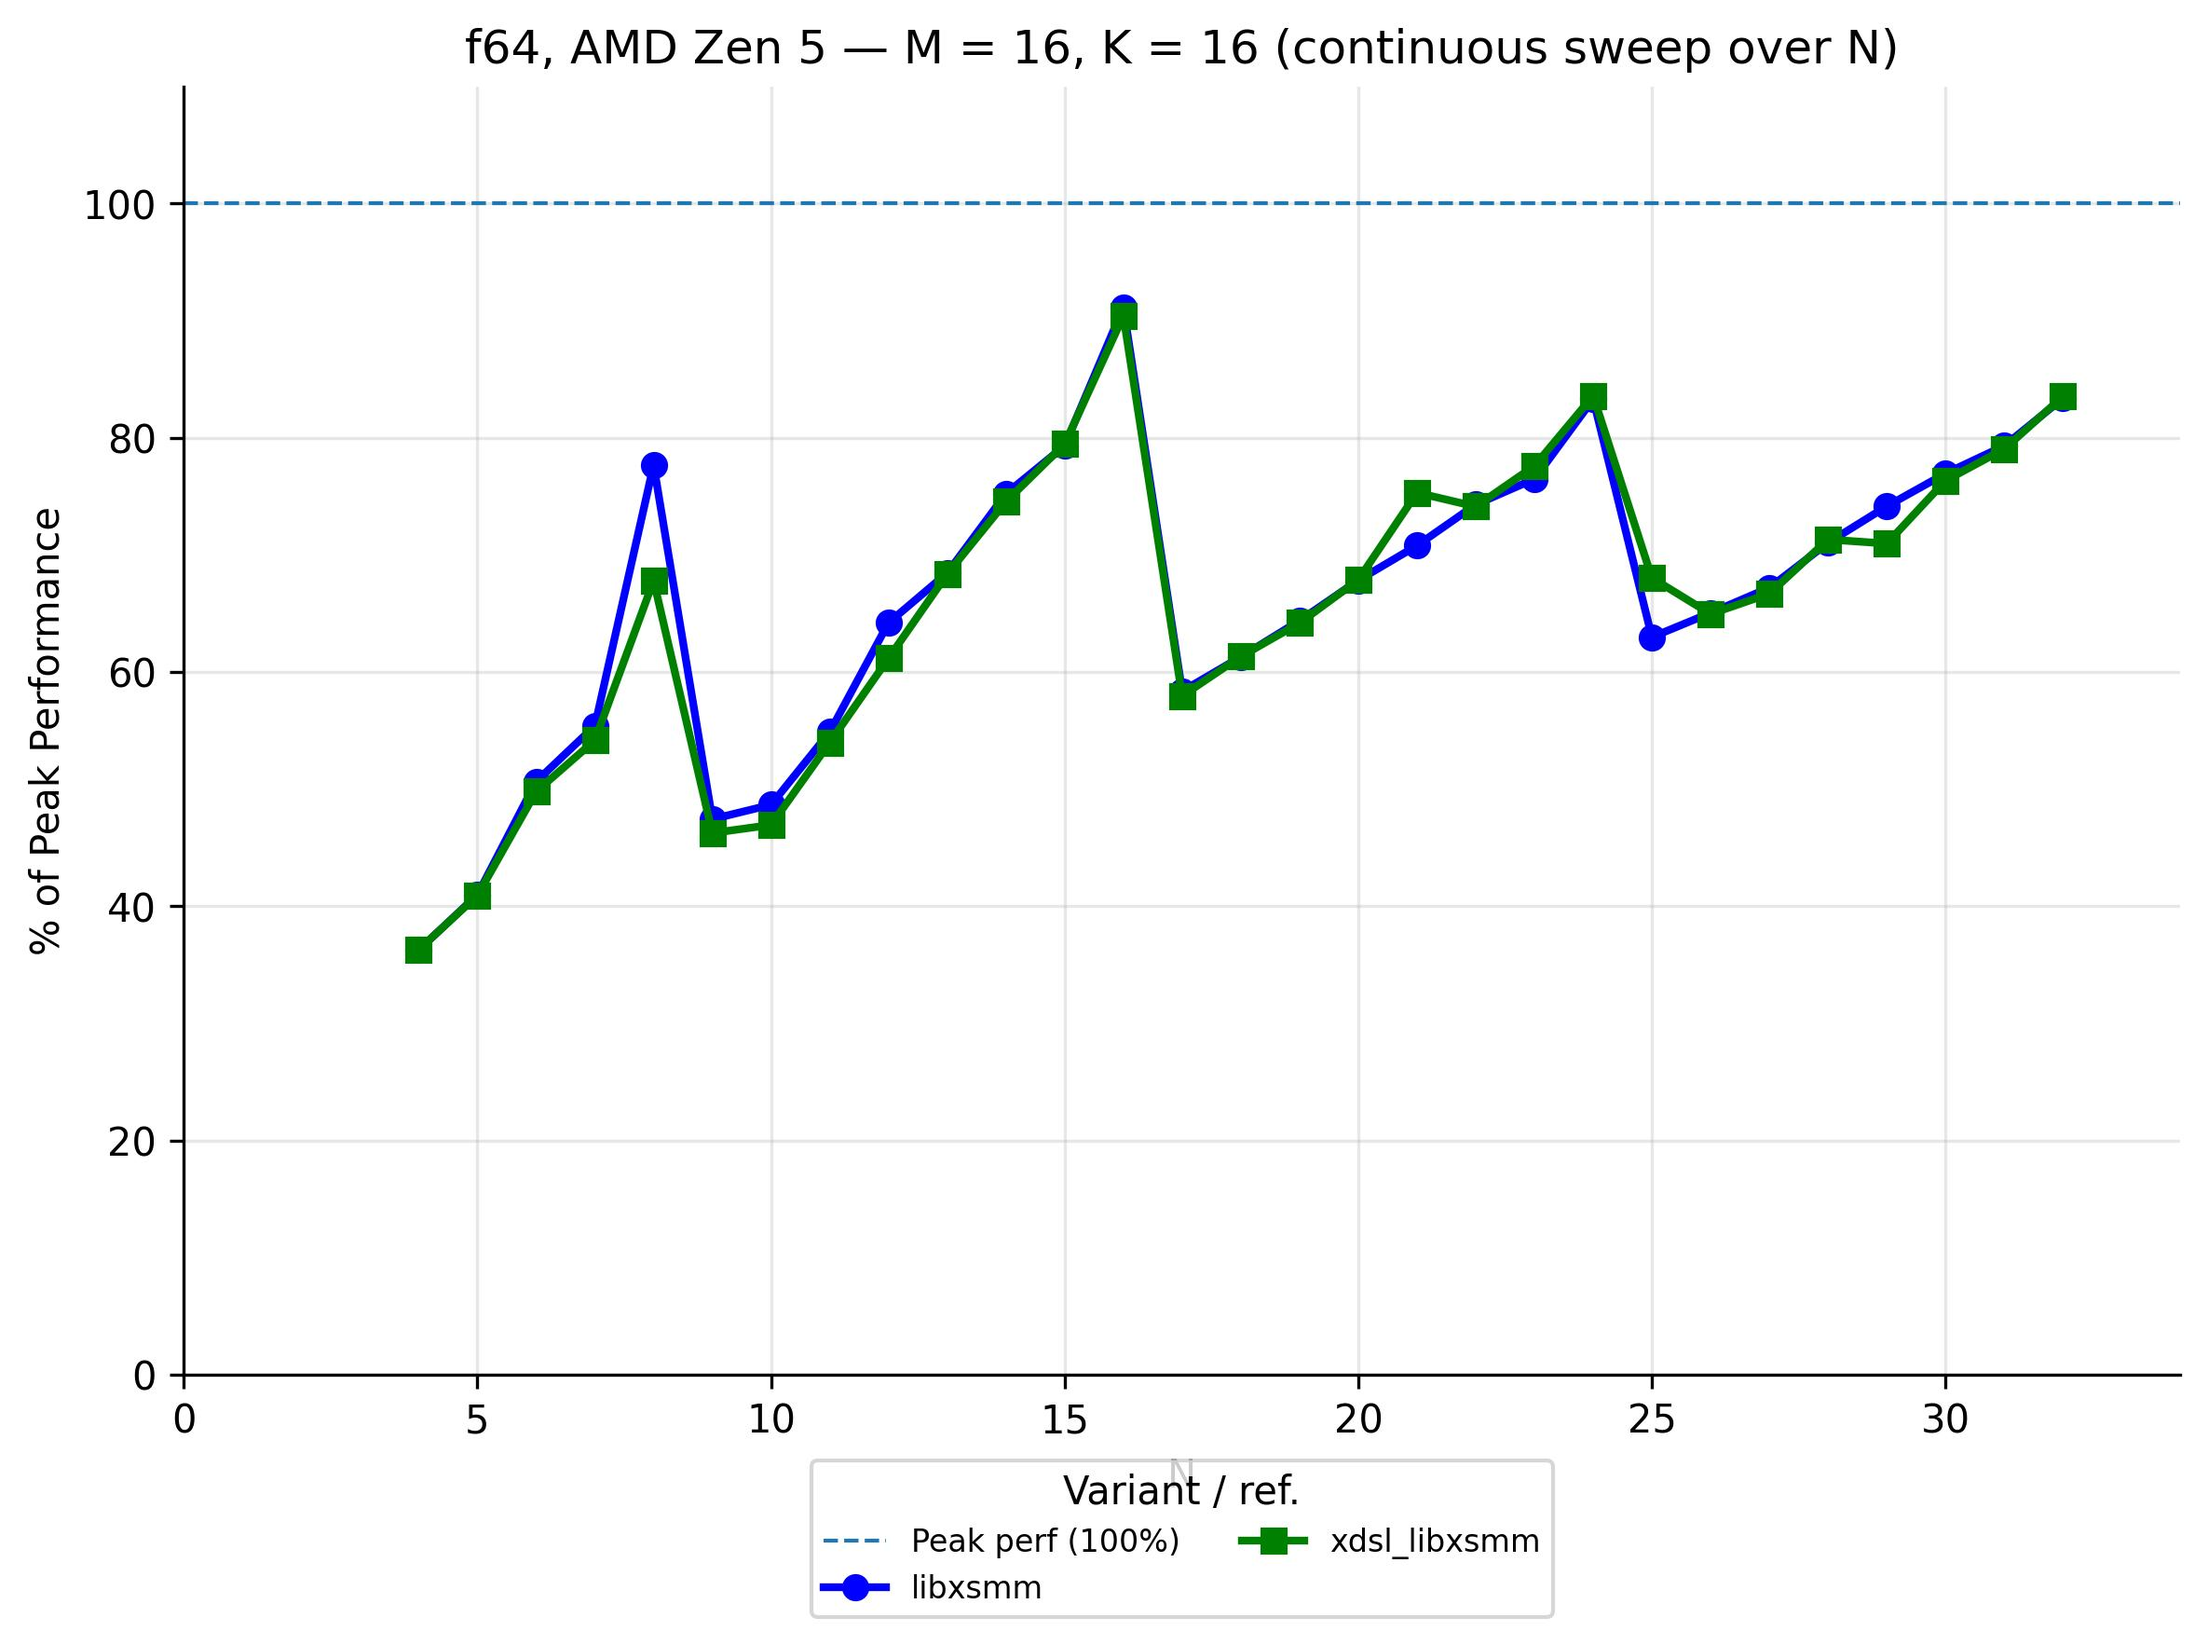
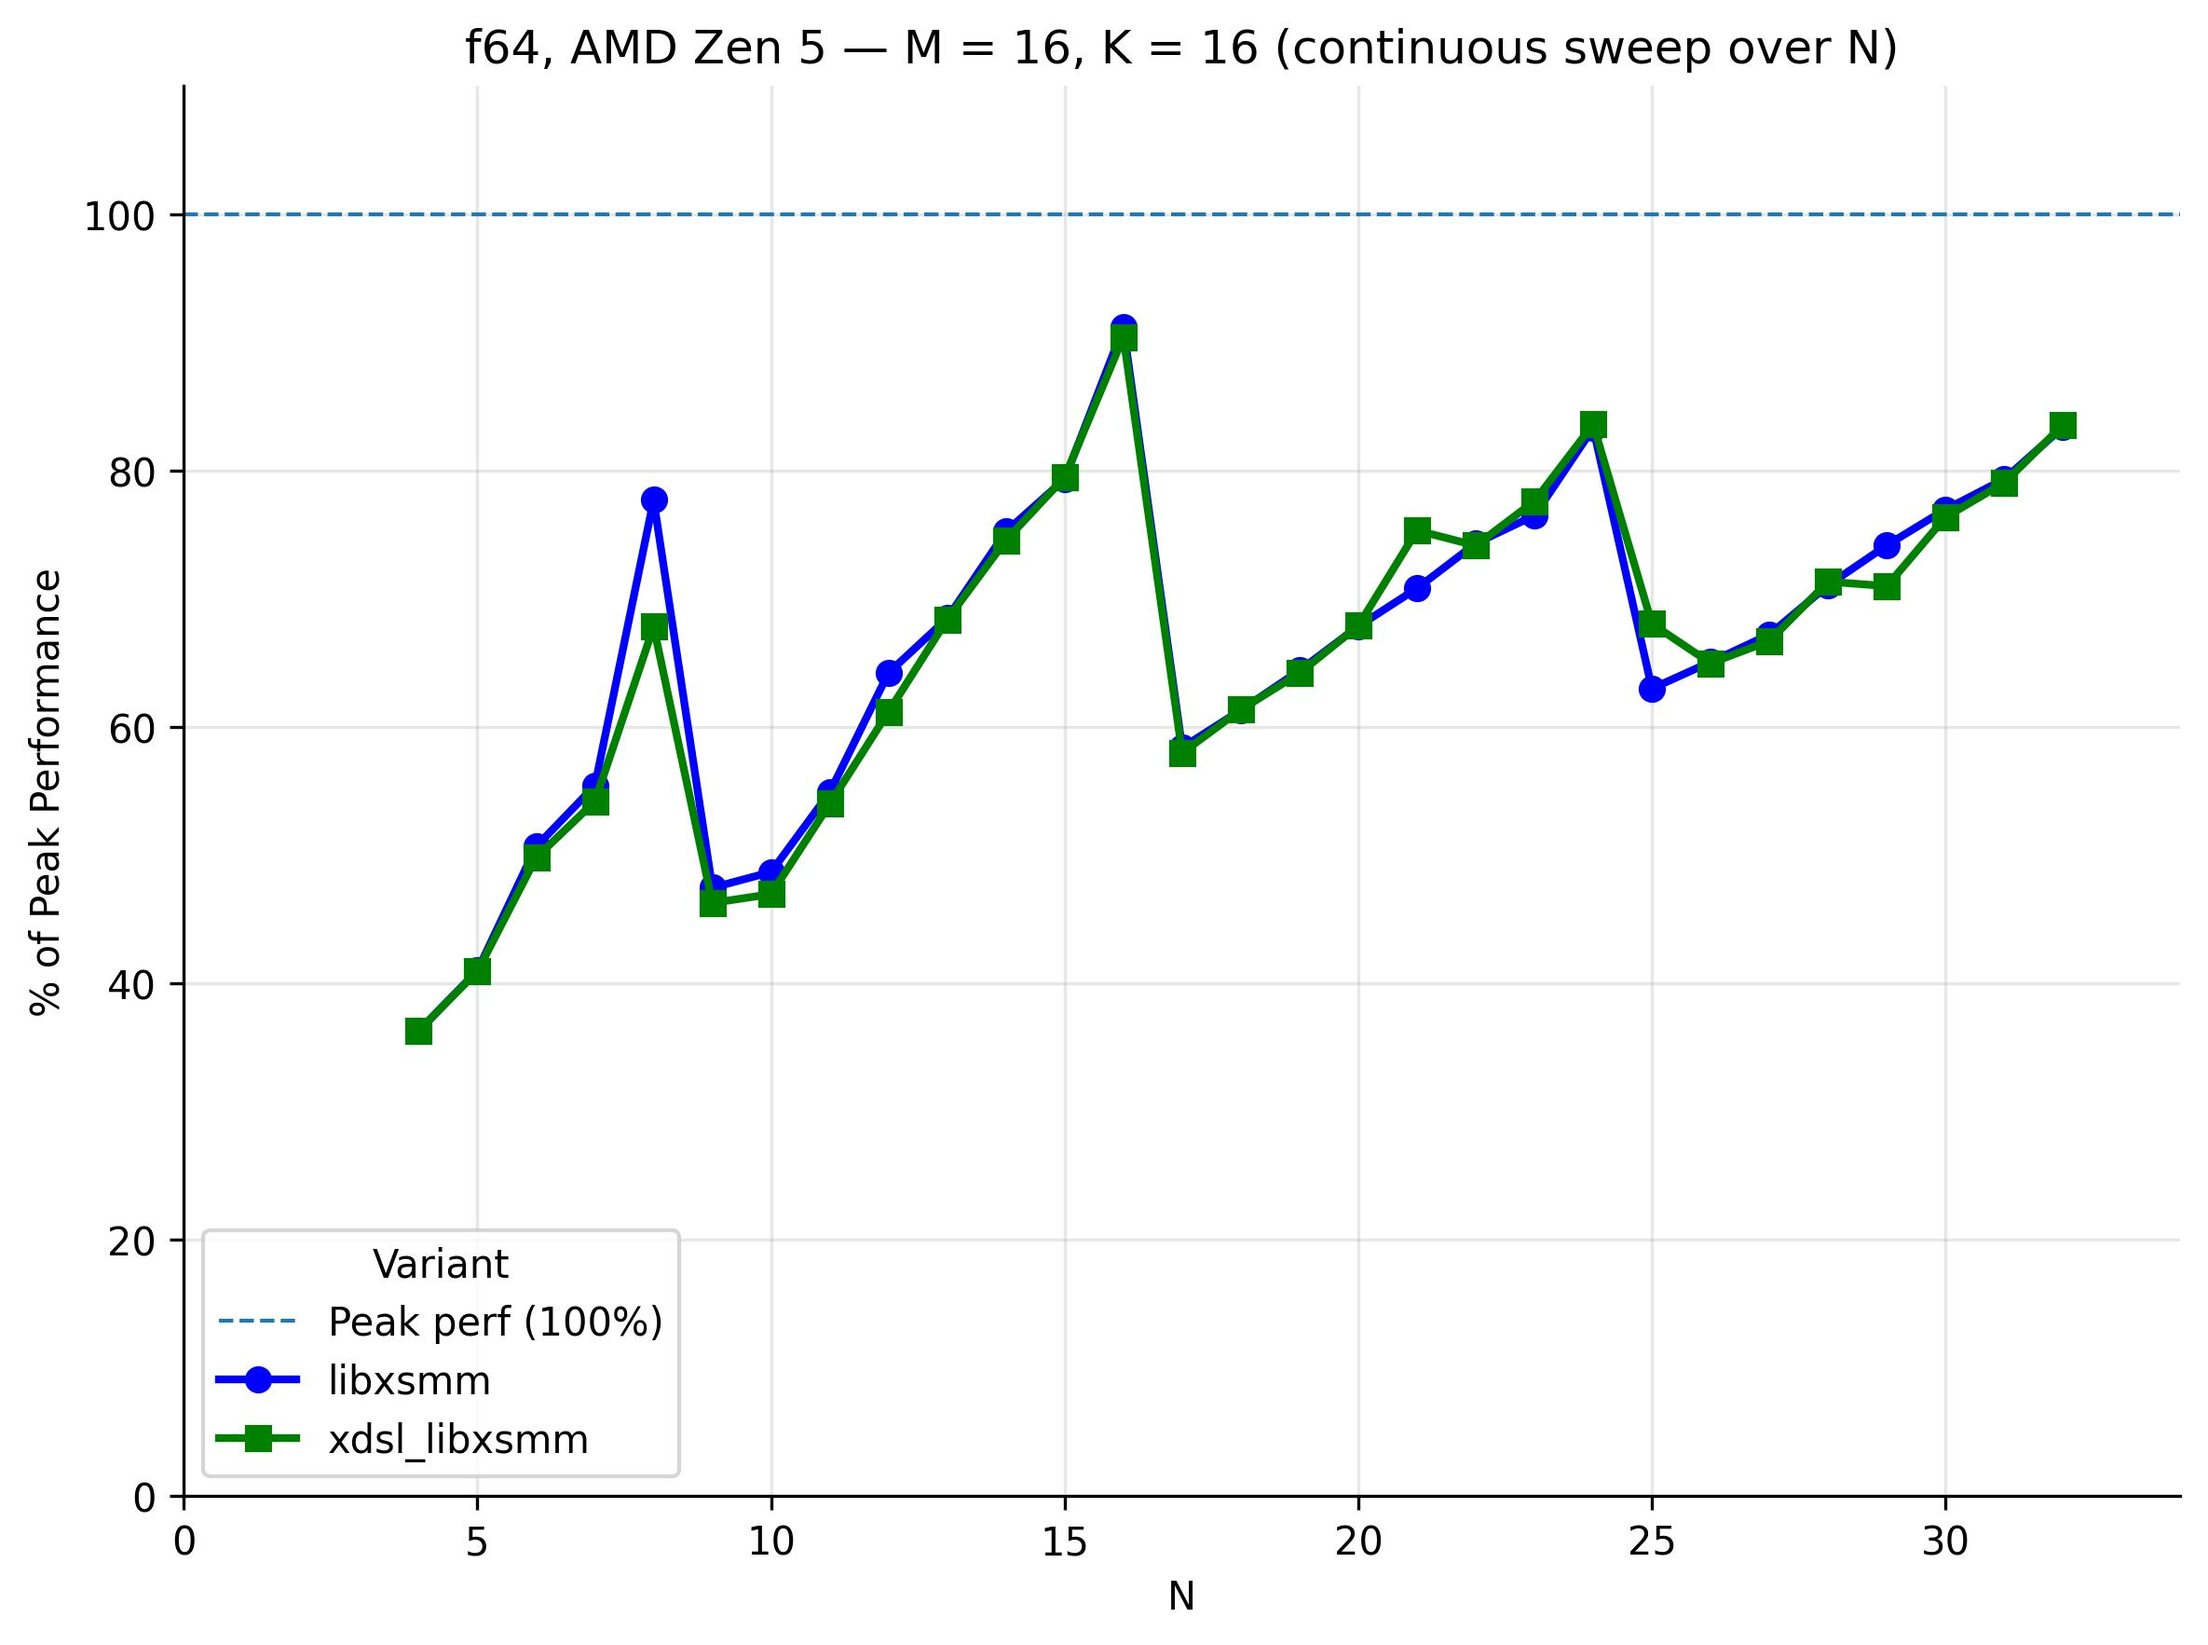
fix legend attempt

diff --git a/src/autotuner/plot_ttile_combined.py b/src/autotuner/plot_ttile_combined.py
@@ -19,7 +19,7 @@ def plot_ttile_combined(df: pd.DataFrame, output_path: Path | None = None) -> No
         fig, ax = plt.subplots(figsize=(8, 6))
         plot_axis_throughput(df, ax, x_row="N", show_xlabel=True, show_ylabel=True)
         ax.set_title(f"{df['dtype'].iloc[0]}, {TARGET_NAME.get(df['target'].iloc[0], df['target'].iloc[0])} — M = {df['M'].iloc[0]}, K = {df['K'].iloc[0]} (continuous sweep over N)")
-        ax.legend(title="Variant / ref.", loc="lower center", bbox_to_anchor=(0.5, -0.2), ncol=2, fontsize=8)
+        ax.legend(title="Variant")
         plt.tight_layout()
         if output_path: plt.savefig(output_path, dpi=300, bbox_inches="tight")
         return
